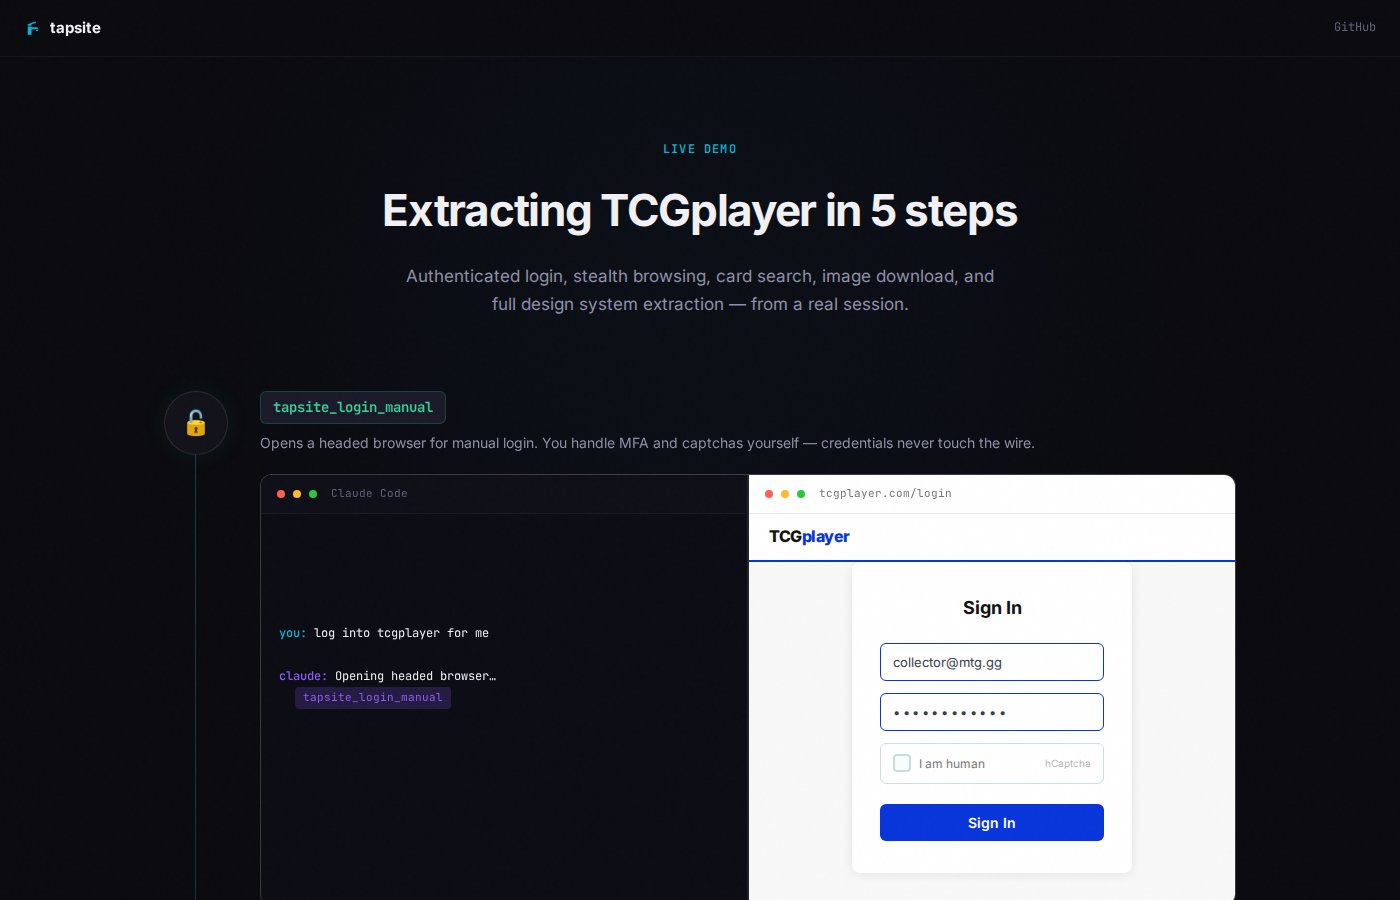
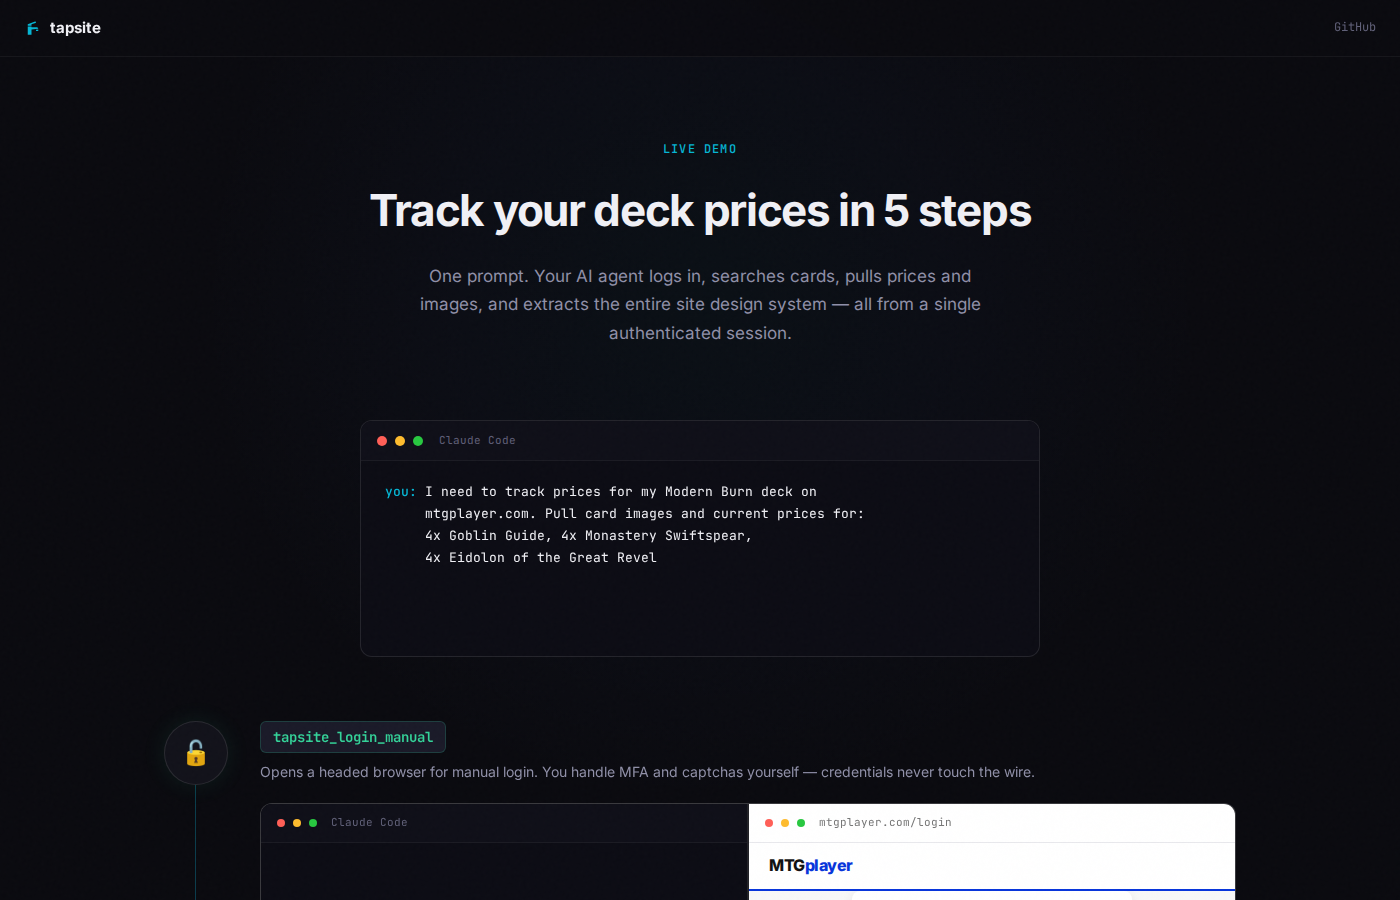
chore: rebrand demo to MTGPlayer with deck price tracking scenario
Replace TCGplayer branding with fictional MTGPlayer. Add opening
Claude Code conversation showing a user requesting deck price
tracking. Update cards to Modern Burn staples with CSS placeholder
art. Add deck total pricing summary.

diff --git a/docs/demo.html b/docs/demo.html
@@ -3,12 +3,12 @@
 <head>
   <meta charset="UTF-8">
   <meta name="viewport" content="width=device-width, initial-scale=1.0">
-  <title>tapsite — TCGplayer Extraction Demo</title>
+  <title>tapsite — MTGPlayer Price Tracking Demo</title>
   <link rel="icon" type="image/x-icon" href="assets/favicon.ico"/>
   <link rel="icon" type="image/png" sizes="32x32" href="assets/favicon-32.png"/>
   <link rel="icon" type="image/png" sizes="16x16" href="assets/favicon-16.png"/>
-  <meta property="og:title" content="tapsite — TCGplayer Extraction Demo">
-  <meta property="og:description" content="Authenticated login, card search, image download, and full design system extraction from TCGplayer — a real tapsite workflow.">
+  <meta property="og:title" content="tapsite — MTGPlayer Price Tracking Demo">
+  <meta property="og:description" content="Track card prices, download art, and extract a full design system from a card marketplace — a real tapsite workflow.">
   <meta property="og:type" content="website">
   <link rel="preconnect" href="https://fonts.googleapis.com">
   <link rel="preconnect" href="https://fonts.gstatic.com" crossorigin>
@@ -1259,10 +1259,31 @@
   <section class="demo-section" style="padding-top:140px;">
     <div class="container">
       <span class="section-label reveal">Live Demo</span>
-      <h2 class="section-title reveal">Extracting TCGplayer in 5 steps</h2>
+      <h2 class="section-title reveal">Track your deck prices in 5 steps</h2>
       <p class="section-subtitle reveal">
-        Authenticated login, stealth browsing, card search, image download, and full design system extraction &mdash; from a real session.
+        One prompt. Your AI agent logs in, searches cards, pulls prices and images, and extracts the entire site design system &mdash; all from a single authenticated session.
       </p>
+
+      <!-- Opening scenario -->
+      <div class="reveal" style="max-width:680px;margin:0 auto 64px;">
+        <div class="terminal">
+          <div class="terminal-bar">
+            <span class="terminal-dot"></span>
+            <span class="terminal-dot"></span>
+            <span class="terminal-dot"></span>
+            <span class="terminal-title">Claude Code</span>
+          </div>
+          <div class="terminal-body" style="padding:20px 24px;">
+            <div class="claude-line"><span class="claude-user">you:</span> I need to track prices for my Modern Burn deck on</div>
+            <div class="claude-line" style="margin-left:40px;">mtgplayer.com. Pull card images and current prices for:</div>
+            <div class="claude-line" style="margin-left:40px;">4x Goblin Guide, 4x Monastery Swiftspear,</div>
+            <div class="claude-line" style="margin-left:40px;">4x Eidolon of the Great Revel</div>
+            <div class="claude-line">&nbsp;</div>
+            <div class="claude-line"><span class="claude-agent">claude:</span> I'll log into MTGPlayer, search for each card,</div>
+            <div class="claude-line" style="margin-left:52px;">and extract pricing and images. Let me start&hellip;</div>
+          </div>
+        </div>
+      </div>
 
       <div class="workflow">
 
@@ -1289,28 +1310,26 @@
                   <span class="pane-bar-title">Claude Code</span>
                 </div>
                 <div class="claude-pane">
-                  <div class="claude-line"><span class="claude-user">you:</span> log into tcgplayer for me</div>
-                  <div class="claude-line">&nbsp;</div>
                   <div class="claude-line"><span class="claude-agent">claude:</span> Opening headed browser&hellip;</div>
                   <div class="claude-line" style="margin-left:12px;"><span class="claude-tool-badge">tapsite_login_manual</span></div>
-                  <div class="claude-line" style="margin-left:12px;"><span class="output">url: tcgplayer.com/login</span></div>
+                  <div class="claude-line" style="margin-left:12px;"><span class="output">url: mtgplayer.com/login</span></div>
                   <div class="claude-line">&nbsp;</div>
                   <div class="claude-line"><span class="claude-agent">claude:</span> Session verified <span class="claude-status-badge ok">&#x2713; authenticated</span></div>
                   <div class="claude-line" style="margin-left:12px;"><span class="output">Welcome back,</span> <span class="value">collector@mtg.gg</span></div>
                 </div>
               </div>
 
-              <!-- Right: TCGplayer login page mockup -->
+              <!-- Right: MTGPlayer login page mockup -->
               <div class="split-right">
                 <div class="pane-bar" style="background:#ffffff; border-color:#e8e8ec;">
                   <span class="terminal-dot"></span>
                   <span class="terminal-dot"></span>
                   <span class="terminal-dot"></span>
-                  <span class="pane-bar-title" style="color:#767676;">tcgplayer.com/login</span>
+                  <span class="pane-bar-title" style="color:#767676;">mtgplayer.com/login</span>
                 </div>
                 <div class="tcg-login-mock">
                   <div class="tcg-topbar">
-                    <span class="tcg-logo-text">TCG<span>player</span></span>
+                    <span class="tcg-logo-text">MTG<span>player</span></span>
                   </div>
                   <div class="tcg-login-card">
                     <div class="tcg-login-title">Sign In</div>
@@ -1350,7 +1369,7 @@
                 <span class="terminal-dot"></span>
                 <span class="terminal-dot"></span>
                 <div class="search-url-bar">
-                  <span class="url-domain">tcgplayer.com</span>/search/magic/product?q=<span id="url-query"></span>
+                  <span class="url-domain">mtgplayer.com</span>/search/magic/product?q=<span id="url-query"></span>
                 </div>
               </div>
               <div class="search-body">
@@ -1363,41 +1382,41 @@
                 </div>
 
                 <div class="search-results-header" id="results-header">
-                  <strong>20 results</strong> for "black lotus" in Magic: The Gathering
+                  <strong>12 results</strong> for "goblin guide" in Magic: The Gathering
                 </div>
 
                 <div class="search-results-grid" id="results-grid">
                   <div class="search-result-card">
-                    <div class="search-result-img">
-                      <img src="assets/black-lotus.jpg" alt="Black Lotus">
+                    <div class="search-result-img placeholder" style="background:linear-gradient(135deg,#c0392b,#e74c3c);display:flex;align-items:center;justify-content:center;">
+                      <span style="font-size:32px;">&#x1f525;</span>
                     </div>
-                    <div class="search-result-name">Black Lotus</div>
-                    <div class="search-result-set">Beta Edition</div>
-                    <div class="search-result-price">from $18,950</div>
+                    <div class="search-result-name">Goblin Guide</div>
+                    <div class="search-result-set">Zendikar</div>
+                    <div class="search-result-price">from $8.49</div>
                   </div>
                   <div class="search-result-card">
-                    <div class="search-result-img">
-                      <img src="assets/black-lotus.jpg" alt="Black Lotus" style="filter:hue-rotate(15deg) brightness(1.1);">
+                    <div class="search-result-img placeholder" style="background:linear-gradient(135deg,#d35400,#e67e22);display:flex;align-items:center;justify-content:center;">
+                      <span style="font-size:32px;">&#x2694;&#xFE0F;</span>
                     </div>
-                    <div class="search-result-name">Black Lotus</div>
-                    <div class="search-result-set">Unlimited Edition</div>
-                    <div class="search-result-price">from $12,500</div>
+                    <div class="search-result-name">Monastery Swiftspear</div>
+                    <div class="search-result-set">Khans of Tarkir</div>
+                    <div class="search-result-price">from $2.15</div>
                   </div>
                   <div class="search-result-card">
-                    <div class="search-result-img">
-                      <img src="assets/black-lotus.jpg" alt="Black Lotus" style="filter:sepia(0.3) brightness(0.95);">
+                    <div class="search-result-img placeholder" style="background:linear-gradient(135deg,#8e44ad,#c0392b);display:flex;align-items:center;justify-content:center;">
+                      <span style="font-size:32px;">&#x1f4a5;</span>
                     </div>
-                    <div class="search-result-name">Black Lotus</div>
-                    <div class="search-result-set">Alpha Edition</div>
-                    <div class="search-result-price">from $45,000</div>
+                    <div class="search-result-name">Eidolon of the Great Revel</div>
+                    <div class="search-result-set">Journey into Nyx</div>
+                    <div class="search-result-price">from $5.75</div>
                   </div>
                   <div class="search-result-card">
-                    <div class="search-result-img">
-                      <img src="assets/black-lotus.jpg" alt="Black Lotus" style="filter:brightness(1.2) contrast(0.9);">
+                    <div class="search-result-img placeholder" style="background:linear-gradient(135deg,#c0392b,#922b21);display:flex;align-items:center;justify-content:center;">
+                      <span style="font-size:32px;">&#x26a1;</span>
                     </div>
-                    <div class="search-result-name">Black Lotus</div>
-                    <div class="search-result-set">Collector's Edition</div>
-                    <div class="search-result-price">from $2,800</div>
+                    <div class="search-result-name">Lightning Bolt</div>
+                    <div class="search-result-set">Magic 2011</div>
+                    <div class="search-result-price">from $1.89</div>
                   </div>
                 </div>
               </div>
@@ -1416,58 +1435,73 @@
               <span class="step-tool">tapsite_extract_images + tapsite_download_images</span>
             </div>
             <p class="step-desc">
-              Extract all images from the page, then download the card art using the authenticated session's cookies.
+              Extract card images and pricing data from each product page using the authenticated session's cookies.
             </p>
 
             <div class="scan-container">
               <div>
-                <div class="card-frame">
-                  <img src="assets/black-lotus.jpg" alt="Black Lotus - Beta Edition" loading="lazy">
+                <div class="card-frame" style="display:flex;align-items:center;justify-content:center;min-height:240px;background:linear-gradient(135deg,#c0392b,#e74c3c);">
+                  <span style="font-size:80px;">&#x1f525;</span>
                 </div>
                 <div class="card-label">
-                  Black Lotus &mdash; Beta &bull; <strong>$18,950+</strong>
+                  Goblin Guide &mdash; Zendikar &bull; <strong>$8.49+</strong>
                 </div>
               </div>
 
               <div class="extracted-panels">
                 <div class="data-panel">
-                  <div class="data-panel-label">Downloaded Assets</div>
+                  <div class="data-panel-label">Downloaded Assets (4 cards)</div>
                   <div class="download-files">
                     <div class="download-file">
                       <span class="check">&#x2713;</span>
-                      <span class="filename">8687_in_1000x1000.jpg</span>
-                      <span class="filesize">126.4 KB</span>
+                      <span class="filename">goblin-guide_400x560.jpg</span>
+                      <span class="filesize">84.2 KB</span>
                     </div>
                     <div class="download-file">
                       <span class="check">&#x2713;</span>
-                      <span class="filename">8687_in_200x200.jpg</span>
-                      <span class="filesize">6.5 KB</span>
+                      <span class="filename">monastery-swiftspear_400x560.jpg</span>
+                      <span class="filesize">71.8 KB</span>
+                    </div>
+                    <div class="download-file">
+                      <span class="check">&#x2713;</span>
+                      <span class="filename">eidolon-great-revel_400x560.jpg</span>
+                      <span class="filesize">92.1 KB</span>
+                    </div>
+                    <div class="download-file">
+                      <span class="check">&#x2713;</span>
+                      <span class="filename">lightning-bolt_400x560.jpg</span>
+                      <span class="filesize">63.5 KB</span>
                     </div>
                   </div>
                 </div>
 
                 <div class="data-panel">
-                  <div class="data-panel-label">Extracted Pricing</div>
+                  <div class="data-panel-label">Deck Price Summary</div>
                   <div class="price-rows">
                     <div class="price-row">
-                      <span class="price-condition">Heavily Played</span>
-                      <span class="price-seller">AncestralMTG</span>
-                      <span class="price-value">$18,950</span>
+                      <span class="price-condition">4x Goblin Guide</span>
+                      <span class="price-seller">Near Mint</span>
+                      <span class="price-value">$33.96</span>
                     </div>
                     <div class="price-row">
-                      <span class="price-condition">Moderately Played</span>
-                      <span class="price-seller">TOAMagic</span>
-                      <span class="price-value">$28,000</span>
+                      <span class="price-condition">4x Monastery Swiftspear</span>
+                      <span class="price-seller">Near Mint</span>
+                      <span class="price-value">$8.60</span>
                     </div>
                     <div class="price-row">
-                      <span class="price-condition">Near Mint</span>
-                      <span class="price-seller">LastSavePoint</span>
-                      <span class="price-value">$30,953</span>
+                      <span class="price-condition">4x Eidolon of the Great Revel</span>
+                      <span class="price-seller">Near Mint</span>
+                      <span class="price-value">$23.00</span>
                     </div>
                     <div class="price-row">
-                      <span class="price-condition">Near Mint (BGS 7.5)</span>
-                      <span class="price-seller">AncestralMTG</span>
-                      <span class="price-value">$37,500</span>
+                      <span class="price-condition">4x Lightning Bolt</span>
+                      <span class="price-seller">Near Mint</span>
+                      <span class="price-value">$7.56</span>
+                    </div>
+                    <div class="price-row" style="border-top:1px solid var(--border-hover);margin-top:4px;padding-top:8px;">
+                      <span class="price-condition" style="color:var(--text-primary);font-weight:600;">Deck Total (16 cards)</span>
+                      <span class="price-seller"></span>
+                      <span class="price-value" style="font-size:14px;">$73.12</span>
                     </div>
                   </div>
                 </div>
@@ -1475,11 +1509,11 @@
                 <div class="data-panel">
                   <div class="data-panel-label">Card Metadata</div>
                   <div class="terminal-body" style="padding: 4px 0 0;">
-                    <div class="terminal-line" style="opacity:1"><span class="key">rarity</span><span class="output">:</span> <span class="value">R</span></div>
-                    <div class="terminal-line" style="opacity:1"><span class="key">type</span><span class="output">:</span> <span class="value">Mono Artifact</span></div>
-                    <div class="terminal-line" style="opacity:1"><span class="key">artist</span><span class="output">:</span> <span class="value">Christopher Rush</span></div>
-                    <div class="terminal-line" style="opacity:1"><span class="key">set</span><span class="output">:</span> <span class="value">Beta Edition (LEB)</span></div>
-                    <div class="terminal-line" style="opacity:1"><span class="key">lastSale</span><span class="output">:</span> <span class="warn">$25,000.00</span></div>
+                    <div class="terminal-line" style="opacity:1"><span class="key">name</span><span class="output">:</span> <span class="value">Goblin Guide</span></div>
+                    <div class="terminal-line" style="opacity:1"><span class="key">type</span><span class="output">:</span> <span class="value">Creature — Goblin Scout</span></div>
+                    <div class="terminal-line" style="opacity:1"><span class="key">mana</span><span class="output">:</span> <span class="value">{R}</span></div>
+                    <div class="terminal-line" style="opacity:1"><span class="key">set</span><span class="output">:</span> <span class="value">Zendikar (ZEN)</span></div>
+                    <div class="terminal-line" style="opacity:1"><span class="key">trend</span><span class="output">:</span> <span class="success">&#x25B2; +$1.20 (30d)</span></div>
                   </div>
                 </div>
               </div>
@@ -1615,8 +1649,8 @@
       <!-- ── BOTTOM CTA ── -->
       <div class="demo-cta reveal">
         <p class="demo-cta-text">
-          <strong>5 steps. 7 tools. 1 authenticated session. Complete site intelligence.</strong><br>
-          Design tokens, component patterns, pricing data, card images, tech stack &mdash; all structured JSON.
+          <strong>One prompt. One session. Complete site intelligence.</strong><br>
+          Card prices, deck totals, images, design tokens, tech stack &mdash; your agent handles everything.
         </p>
         <div class="demo-cta-links">
           <a href="https://www.npmjs.com/package/tapsite" class="btn-primary btn-install">
@@ -1646,7 +1680,7 @@
       els.forEach(function(el) { observer.observe(el); });
 
       // Search typing animation
-      var searchText = 'black lotus';
+      var searchText = 'goblin guide';
       var typed = document.getElementById('search-typed');
       var urlQuery = document.getElementById('url-query');
       var cursor = document.getElementById('search-cursor');
